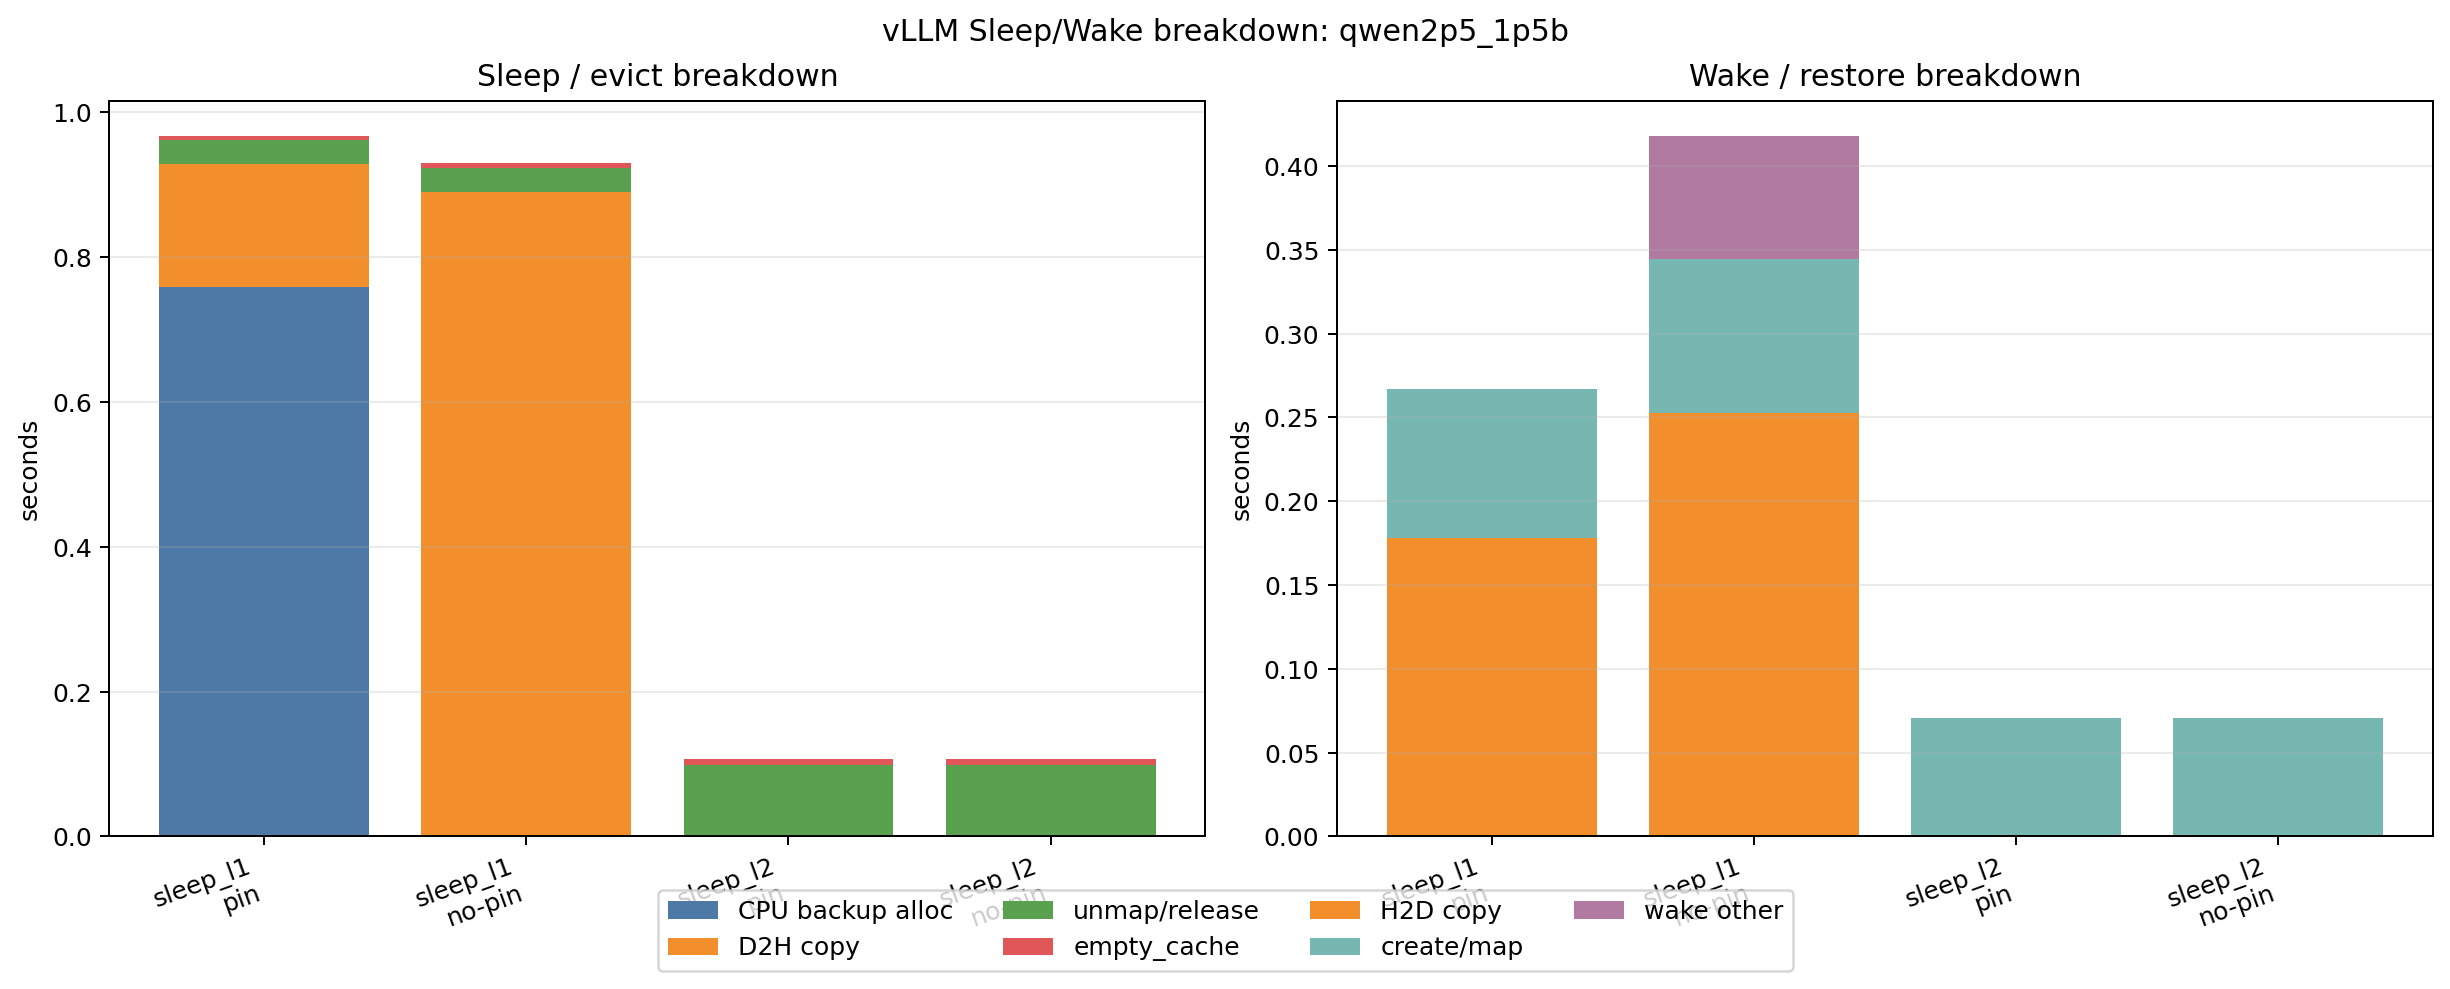
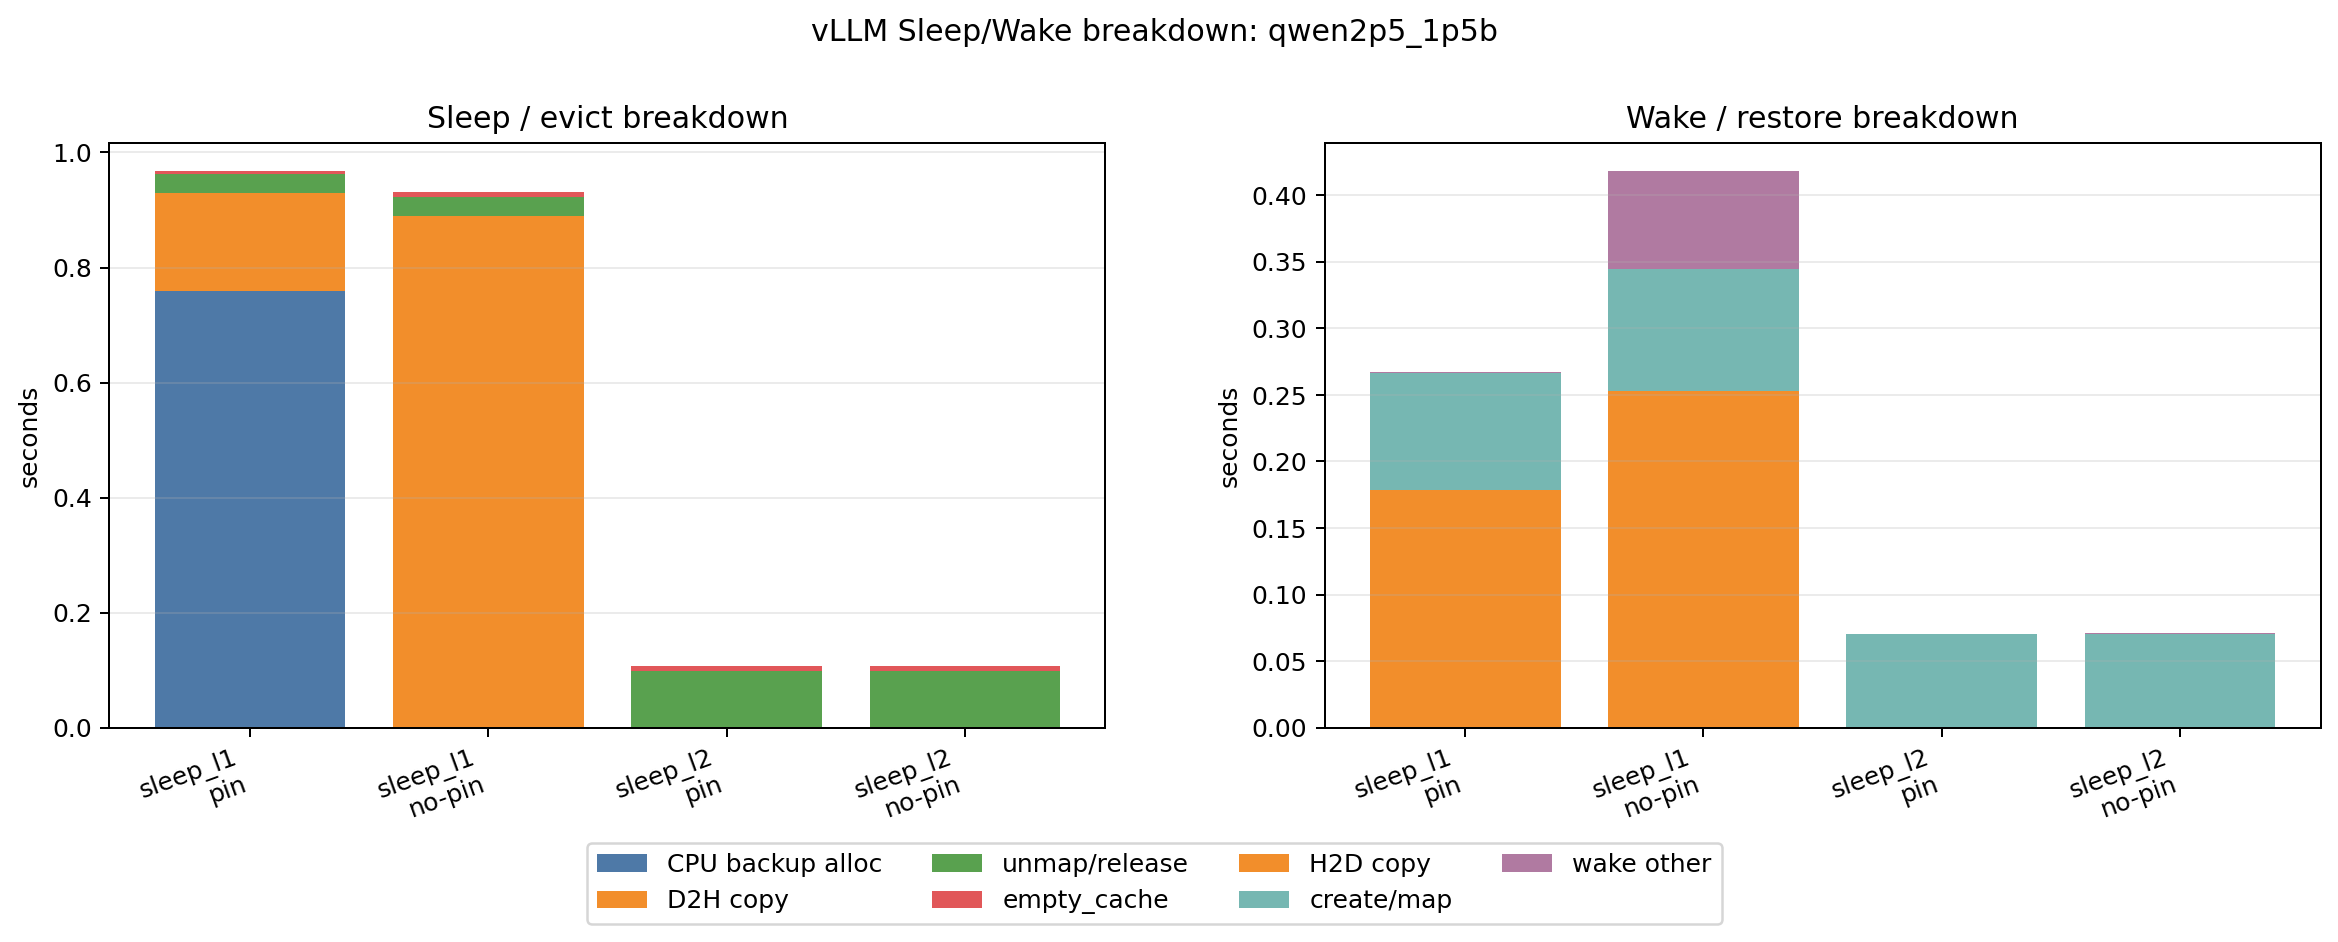
chore: plot vllm profiling comparision

diff --git a/src/tool/plot_vllm_pin_compare.py b/src/tool/plot_vllm_pin_compare.py
@@ -91,7 +91,7 @@ def render_model(model: str, rows: list[dict[str, Any]], out_path: Path) -> Path
             ordered.append(match)
             labels.append(f"{method}\n{'pin' if pin == 'true' else 'no-pin'}")
 
-    fig, axes = plt.subplots(1, 2, figsize=(13.5, 5.2), constrained_layout=True)
+    fig, axes = plt.subplots(1, 2, figsize=(13.5, 5.8))
     fig.suptitle(f"vLLM Sleep/Wake breakdown: {model}")
     stack_bars(axes[0], labels, ordered, SLEEP_COMPONENTS)
     axes[0].set_title("Sleep / evict breakdown")
@@ -103,7 +103,8 @@ def render_model(model: str, rows: list[dict[str, Any]], out_path: Path) -> Path
         handles.extend(h)
         labels_legend.extend(l)
     dedup = dict(zip(labels_legend, handles))
-    fig.legend(dedup.values(), dedup.keys(), loc="lower center", ncol=4, bbox_to_anchor=(0.5, -0.04))
+    fig.subplots_adjust(left=0.07, right=0.98, top=0.86, bottom=0.30, wspace=0.22)
+    fig.legend(dedup.values(), dedup.keys(), loc="lower center", ncol=4, bbox_to_anchor=(0.5, 0.1))
     out_path.parent.mkdir(parents=True, exist_ok=True)
     fig.savefig(out_path, dpi=180, bbox_inches="tight")
     plt.close(fig)
